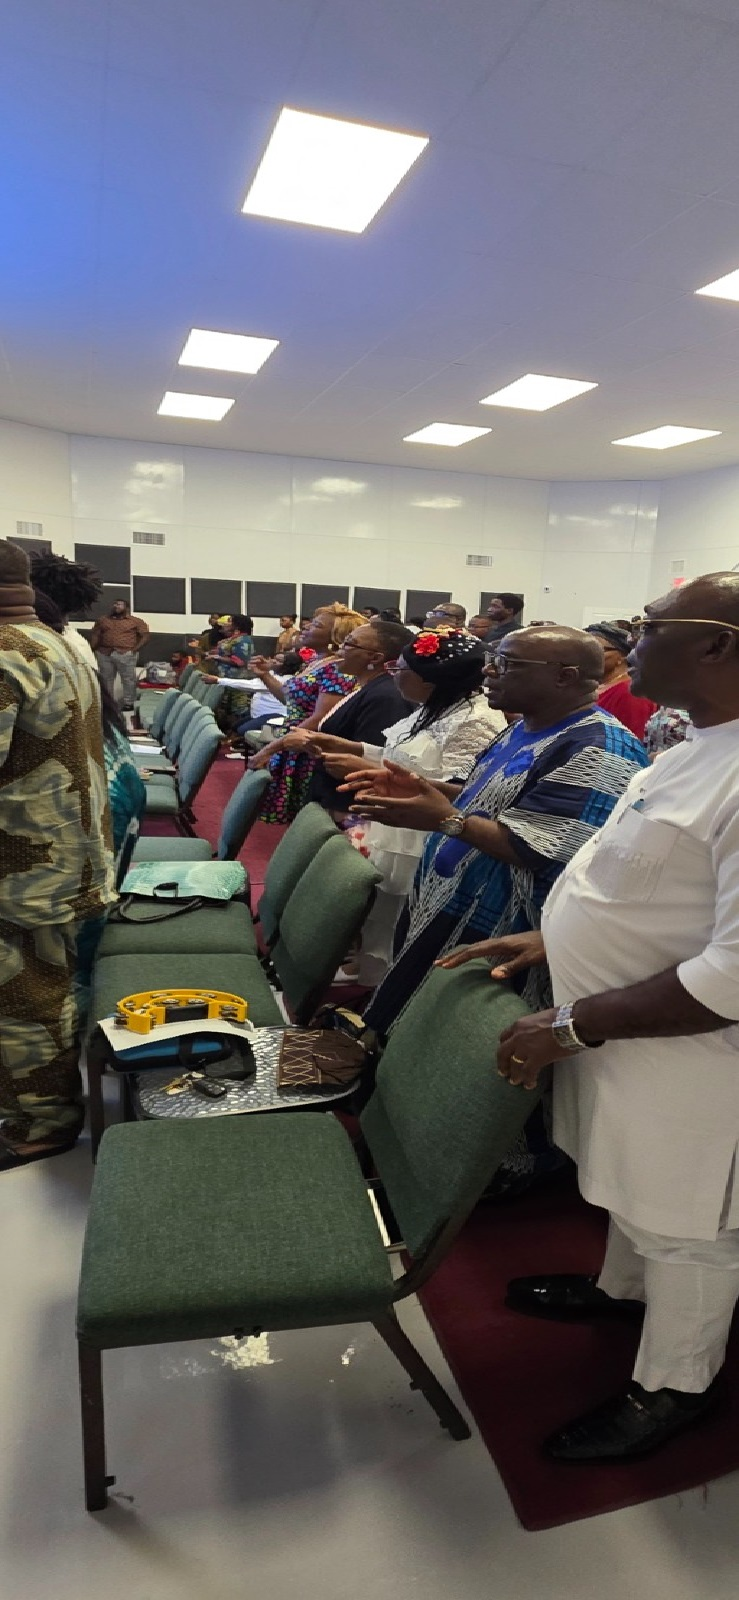
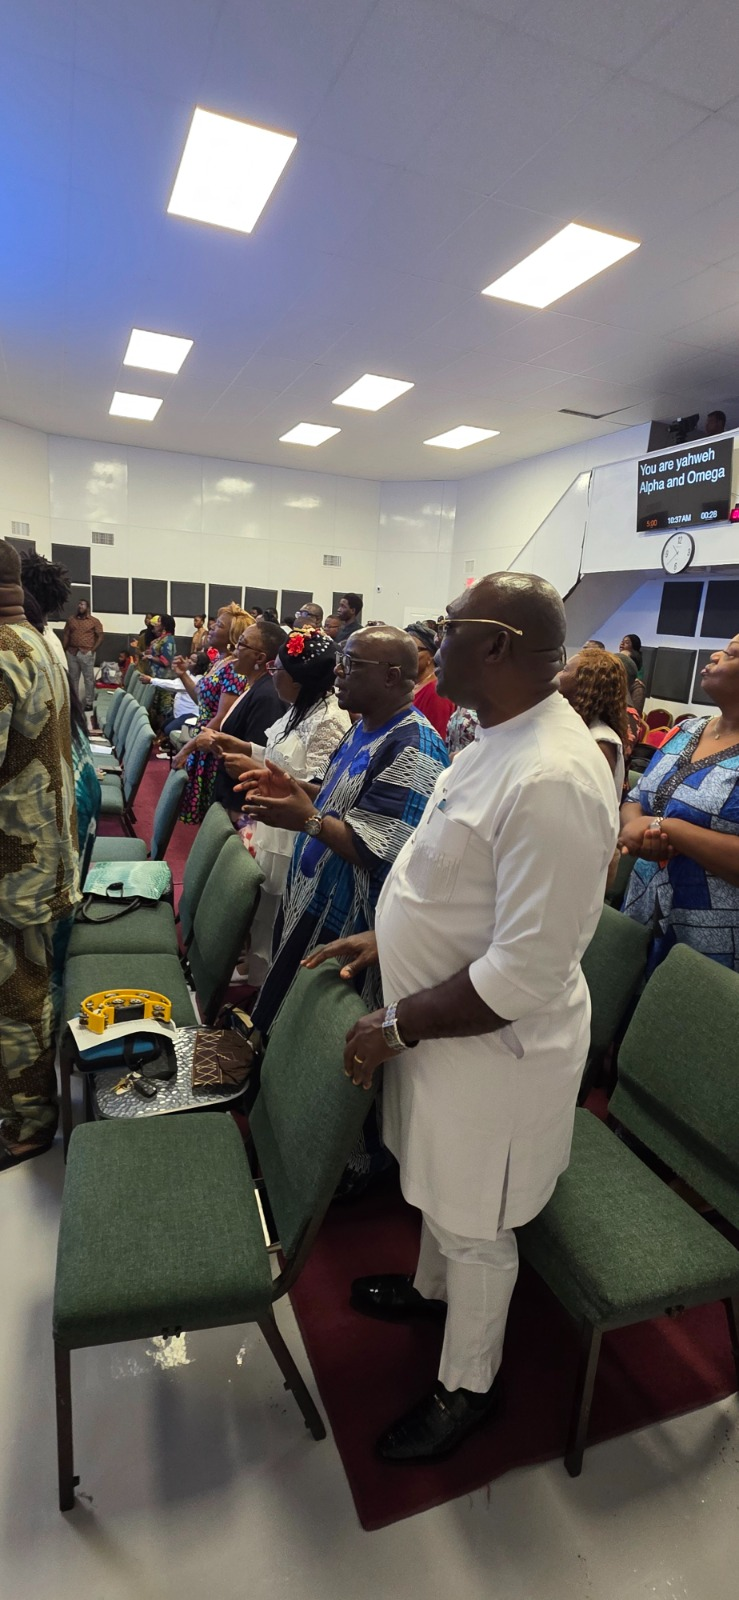
ss

diff --git a/components/Learn/DesktopBackground.tsx b/components/Learn/DesktopBackground.tsx
@@ -18,7 +18,7 @@ function Background() {
               {/* First Image with GROUPS text */}
               <div className="relative overflow-visible">
                 <ImageSection
-                  src="/group22.jpeg"
+                  src="/123e.jpg"
                   aspectRatio="aspect-[0.8]"
                   className="self-end grayscale relative"
                 />
